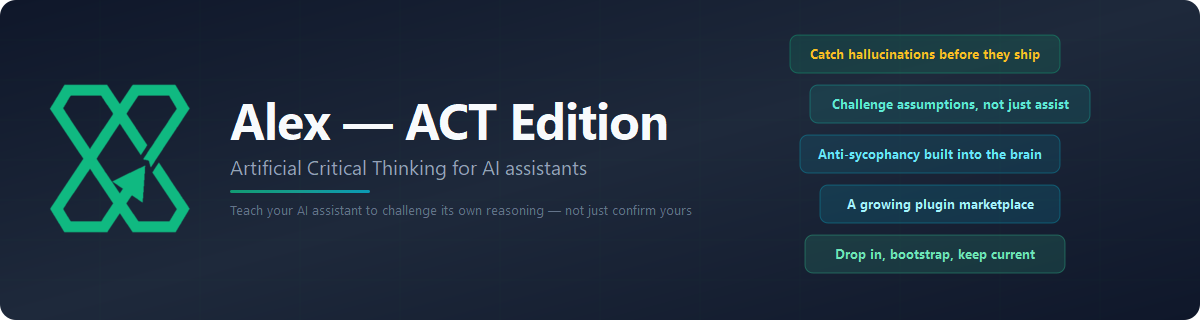
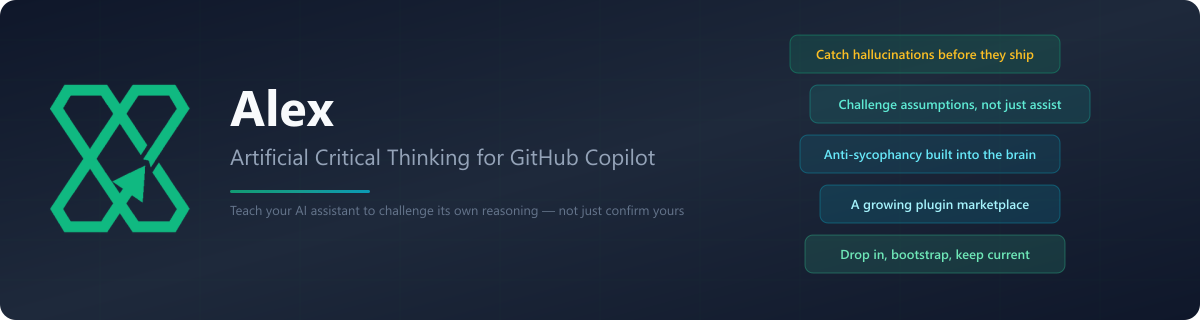
[clarification] release v9.5.8 descriptive display name

diff --git a/test/packaging.test.js b/test/packaging.test.js
@@ -8,6 +8,17 @@ const test = require('node:test');
 const root = path.resolve(__dirname, '..');
 const ignorePath = path.join(root, '.vscodeignore');
 
+test('Marketplace identity keeps its stable ID and descriptive display name', () => {
+    const packageJson = JSON.parse(fs.readFileSync(path.join(root, 'package.json'), 'utf8'));
+
+    assert.equal(packageJson.publisher, 'fabioc-aloha');
+    assert.equal(packageJson.name, 'alex-cognitive-architecture');
+    assert.equal(
+        packageJson.displayName,
+        'Alex: Artificial Critical Thinking for GitHub Copilot'
+    );
+});
+
 function readIgnoreLines() {
     return fs.readFileSync(ignorePath, 'utf8')
         .split(/\r?\n/)

diff --git a/extension.js b/extension.js
@@ -1224,7 +1224,7 @@ async function cmdStatusBarMenu() {
 
     items.push(
         { label: '$(milestone) Open Welcome Walkthrough', description: 'Extension getting-started guide', action: 'walkthrough' },
-        { label: '$(book) Open Extension README', description: 'About Alex — ACT Edition', action: 'extReadme' },
+        { label: '$(book) Open Extension README', description: 'About Alex: Artificial Critical Thinking for GitHub Copilot', action: 'extReadme' },
     );
 
     const pick = await vscode.window.showQuickPick(items, {

diff --git a/CHANGELOG.md b/CHANGELOG.md
@@ -3,9 +3,31 @@
 
 # Changelog
 
-All notable changes to Alex — ACT Edition.
+All notable changes to Alex: Artificial Critical Thinking for GitHub Copilot.
 
 ## [Unreleased]
+
+## [9.5.8] - 2026-07-13
+
+**Patch [clarification] — Give the Marketplace extension a descriptive name without changing its identity or update path.**
+
+### Changed
+
+- Changed the user-facing display name from `Alex — ACT Edition` to `Alex: Artificial Critical Thinking for GitHub Copilot`.
+- Updated the Marketplace README title, install guidance, About copy, and banner to use the descriptive name.
+- Kept the immutable extension ID `fabioc-aloha.alex-cognitive-architecture`, command IDs, publisher, and installed brain identity unchanged. Existing installations continue to update in place.
+
+### Verification
+
+- `npm test`: 150/150 PASS, including the stable-ID/descriptive-display-name contract.
+- `npm run test:semantic`: 5/5 PASS.
+- `npm run test:integration`: 3/3 PASS against the live Edition release.
+- Banner source parses as XML; rendered PNG is 1200×320 with no clipping or overlap.
+- Marketplace search found no exact display-name collision before release preparation.
+
+### Falsifier
+
+Revise the display name if Marketplace search no longer finds the extension for `critical thinking`, `artificial critical thinking`, or `GitHub Copilot`, or if the 47-character name is truncated beyond recognition in the Extensions view.
 
 ## [9.5.7] - 2026-07-13
 

diff --git a/README.md b/README.md
@@ -1,6 +1,6 @@
-# Alex — ACT Edition
+# Alex: Artificial Critical Thinking for GitHub Copilot
 
-![Alex — ACT Edition](https://raw.githubusercontent.com/fabioc-aloha/Alex_ACT_Extension/main/assets/banner-readme.png)
+![Alex: Artificial Critical Thinking for GitHub Copilot](https://raw.githubusercontent.com/fabioc-aloha/Alex_ACT_Extension/main/assets/banner-readme.png)
 
 > **Artificial Critical Thinking for GitHub Copilot.** A living brain of skills, instructions, and prompts that teaches your AI to reason honestly.
 

diff --git a/docs/wiki/Getting-Started.md b/docs/wiki/Getting-Started.md
@@ -8,7 +8,7 @@ If you arrived here from a fresh VS Code install:
 
 1. Open VS Code.
 2. Open the Extensions view (`Ctrl+Shift+X`, Mac: `Cmd+Shift+X`).
-3. Search for **Alex — ACT Edition** (publisher: `fabioc-aloha`).
+3. Search for **Alex: Artificial Critical Thinking for GitHub Copilot** (publisher: `fabioc-aloha`).
 4. Click **Install**.
 
 When the extension loads it opens a welcome walkthrough. You can re-open it any time with `Ctrl+Shift+P` then *Alex: Open Welcome Guide*.
